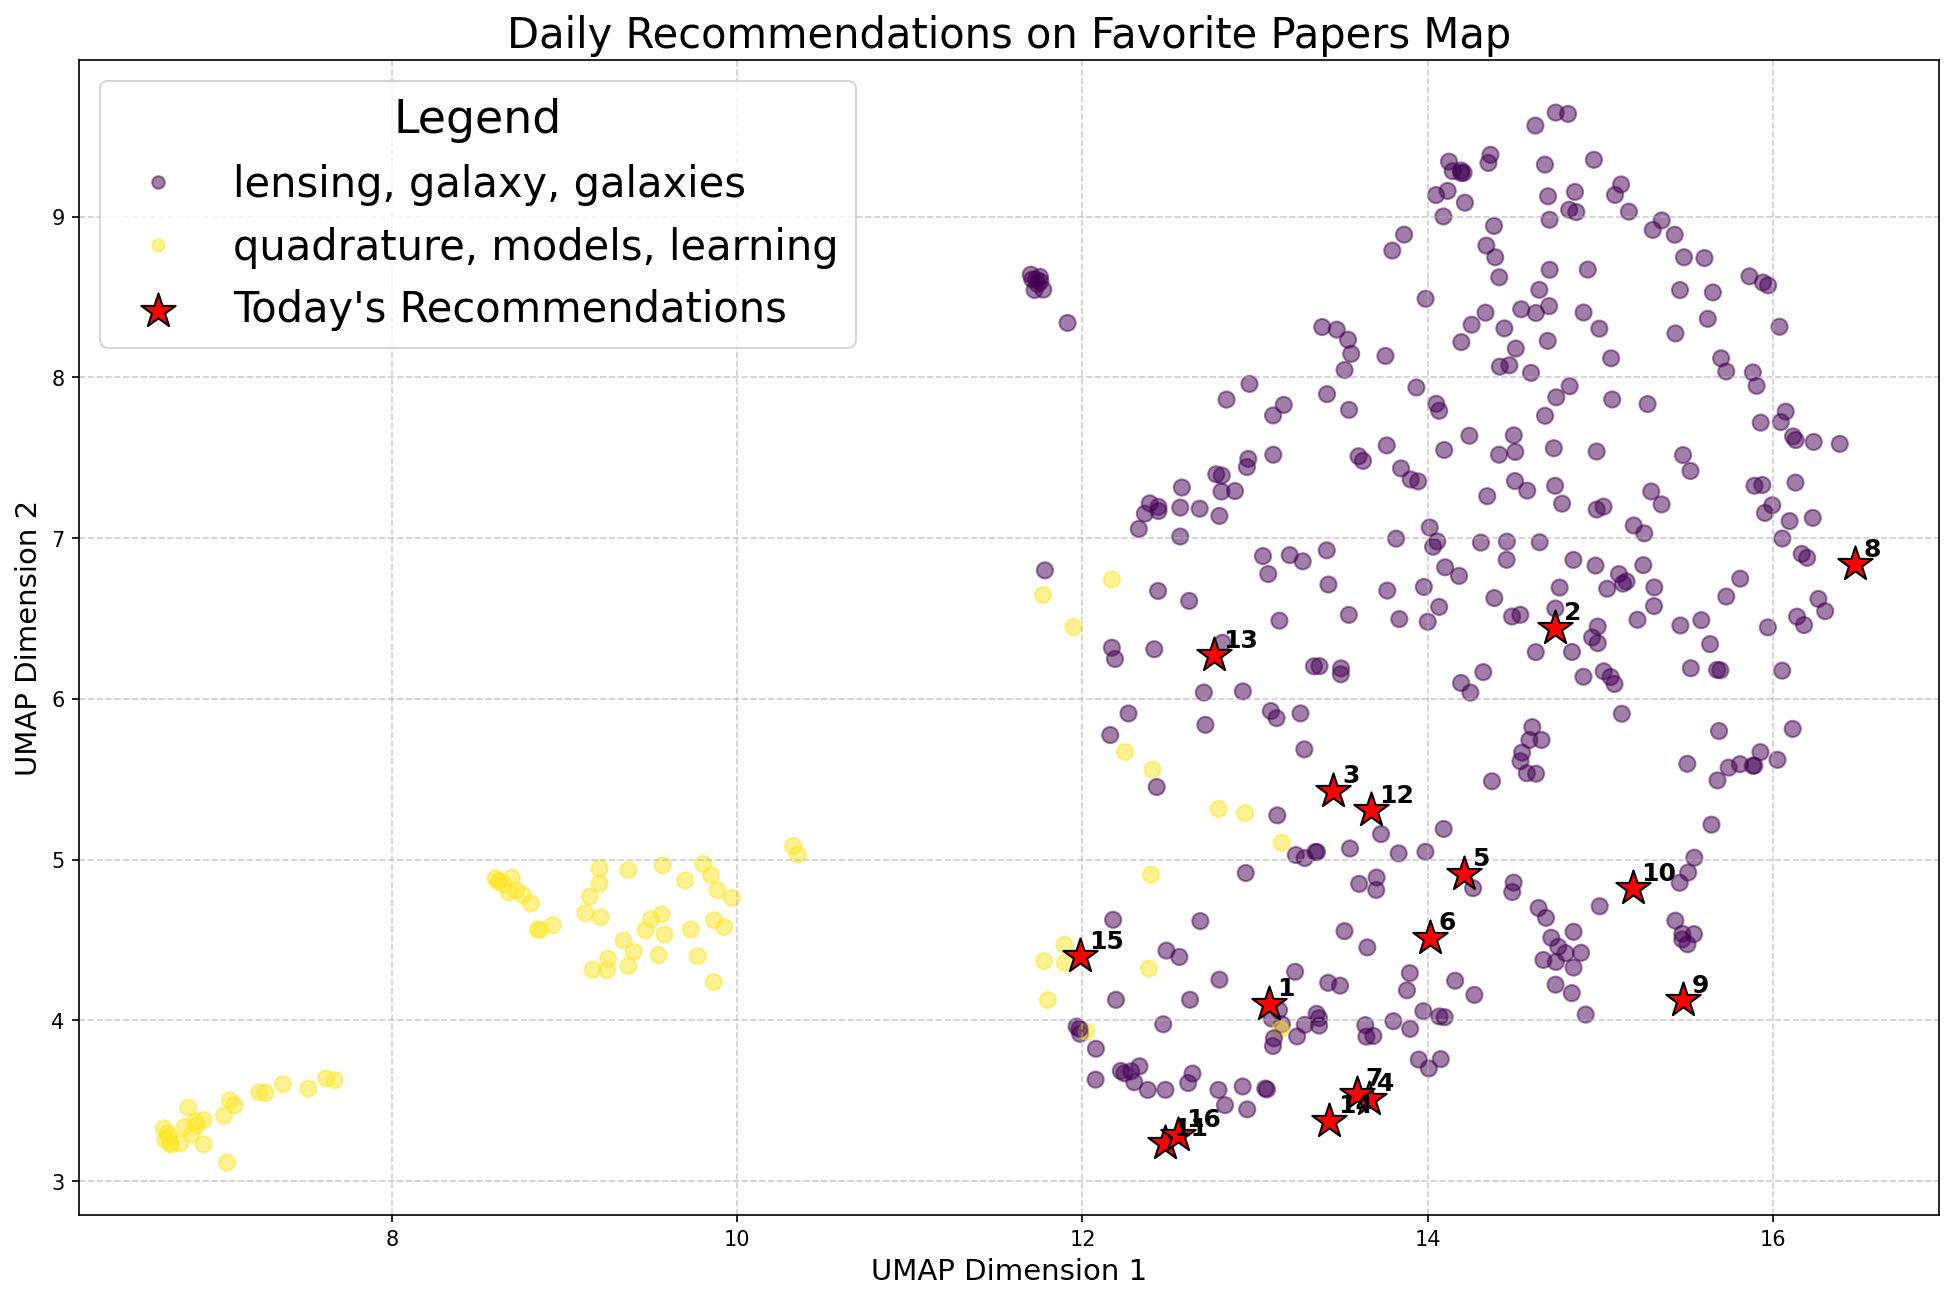
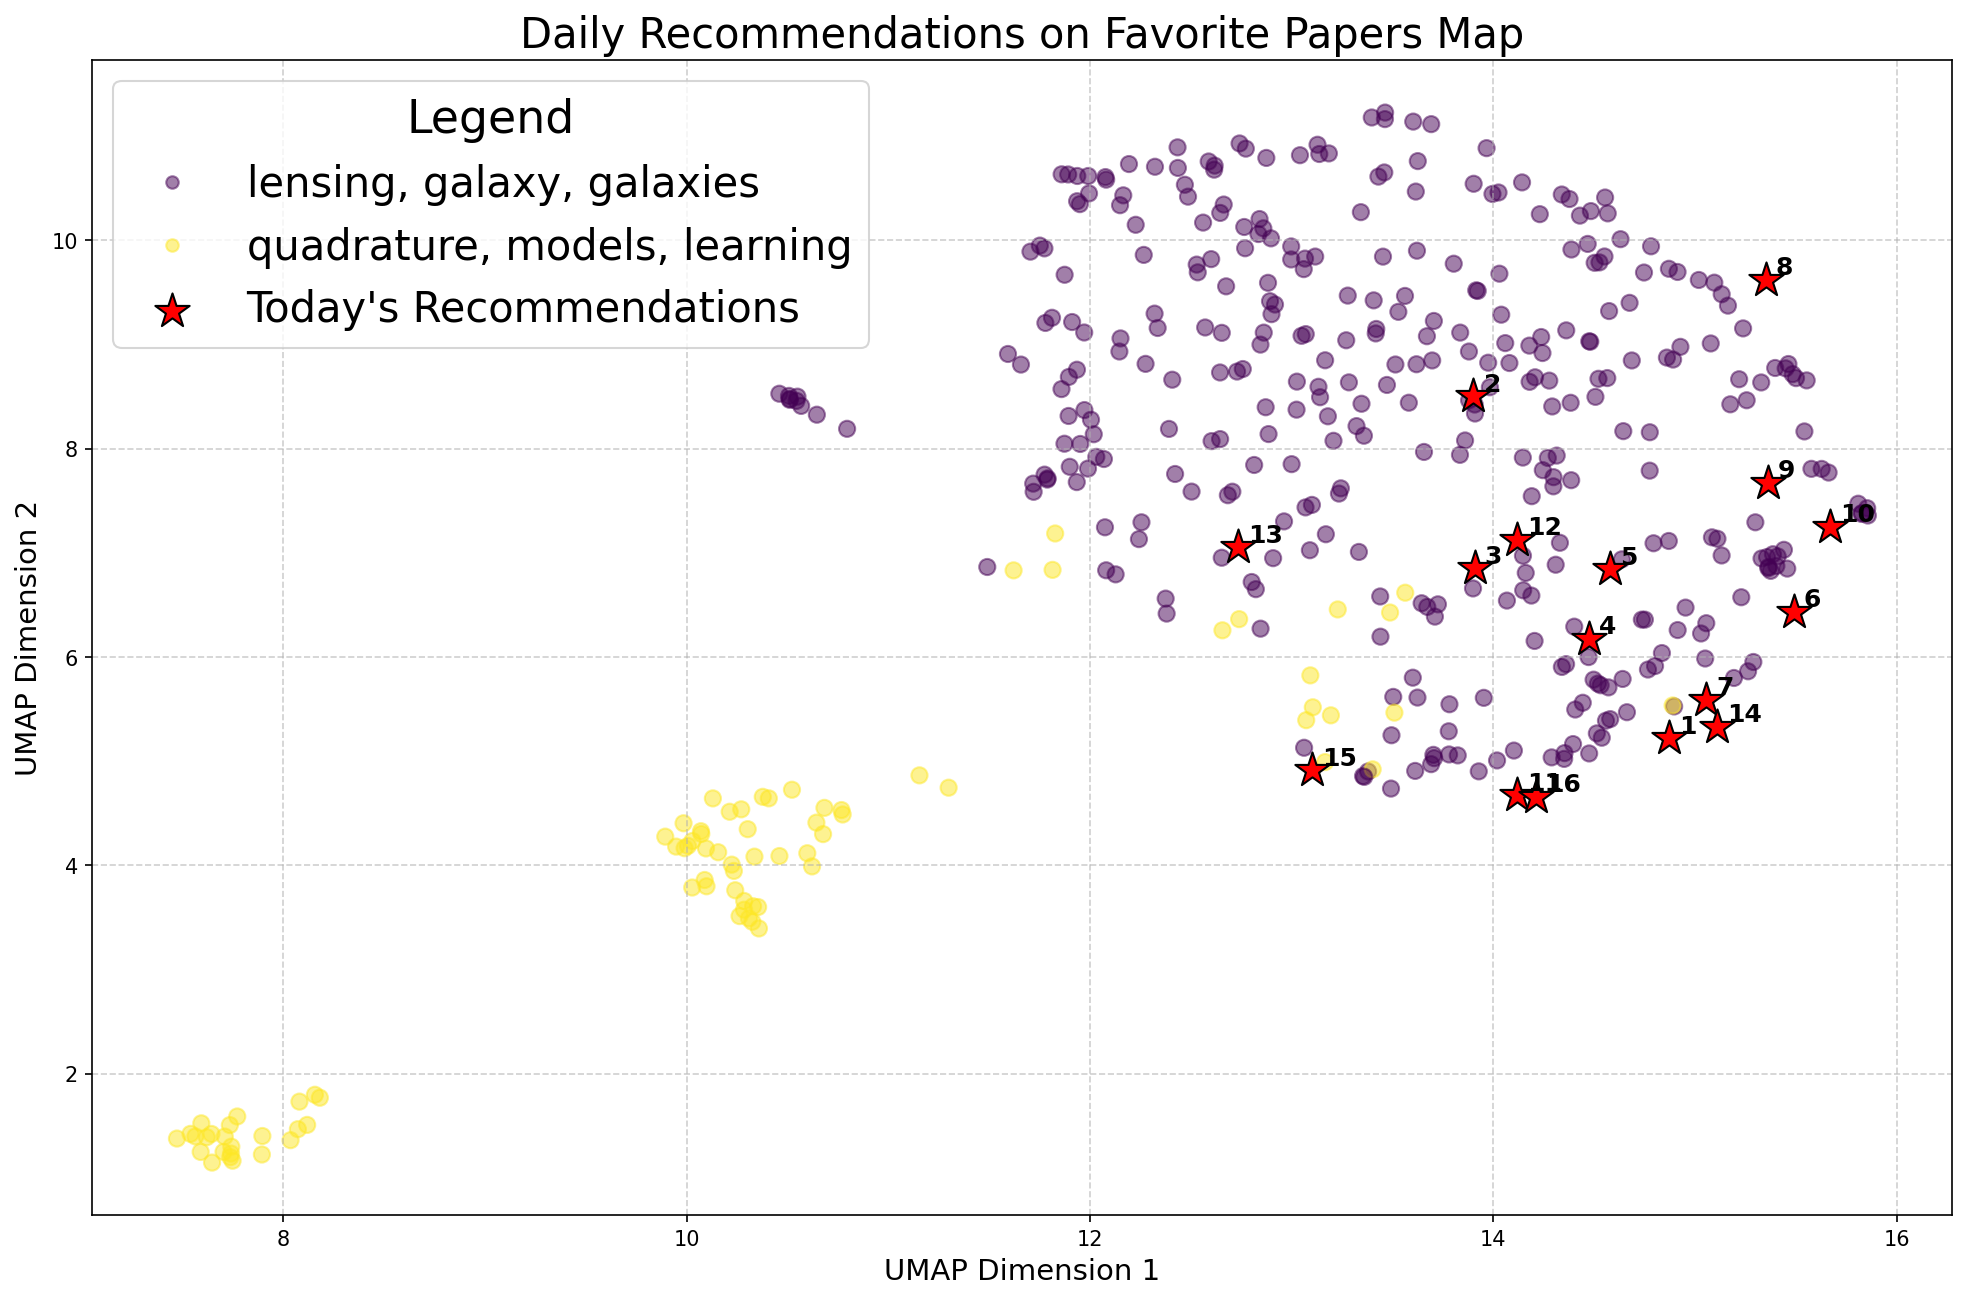
deploy: c8a6aba83fbd8c6409ec20eb31c72fd9546effd6

diff --git a/arxiv_history/20250911.html b/arxiv_history/20250911.html
@@ -83,7 +83,7 @@ function toggleAuthors(element) {
                         <div class="card h-100">
                             <div class="card-header fw-bold">Interest Clusters</div>
                             <div class="card-body text-center p-2">
-                                <img src="analysis_results/cluster_visualization.png" class="img-fluid rounded" alt="2D Cluster plot of favorite papers">
+                                <img src="analysis_results/daily_cluster_map.png" class="img-fluid rounded" alt="2D Cluster plot of favorite papers">
                             </div>
                         </div>
                     </div>

diff --git a/index.html b/index.html
@@ -83,7 +83,7 @@ function toggleAuthors(element) {
                         <div class="card h-100">
                             <div class="card-header fw-bold">Interest Clusters</div>
                             <div class="card-body text-center p-2">
-                                <img src="analysis_results/cluster_visualization.png" class="img-fluid rounded" alt="2D Cluster plot of favorite papers">
+                                <img src="analysis_results/daily_cluster_map.png" class="img-fluid rounded" alt="2D Cluster plot of favorite papers">
                             </div>
                         </div>
                     </div>
